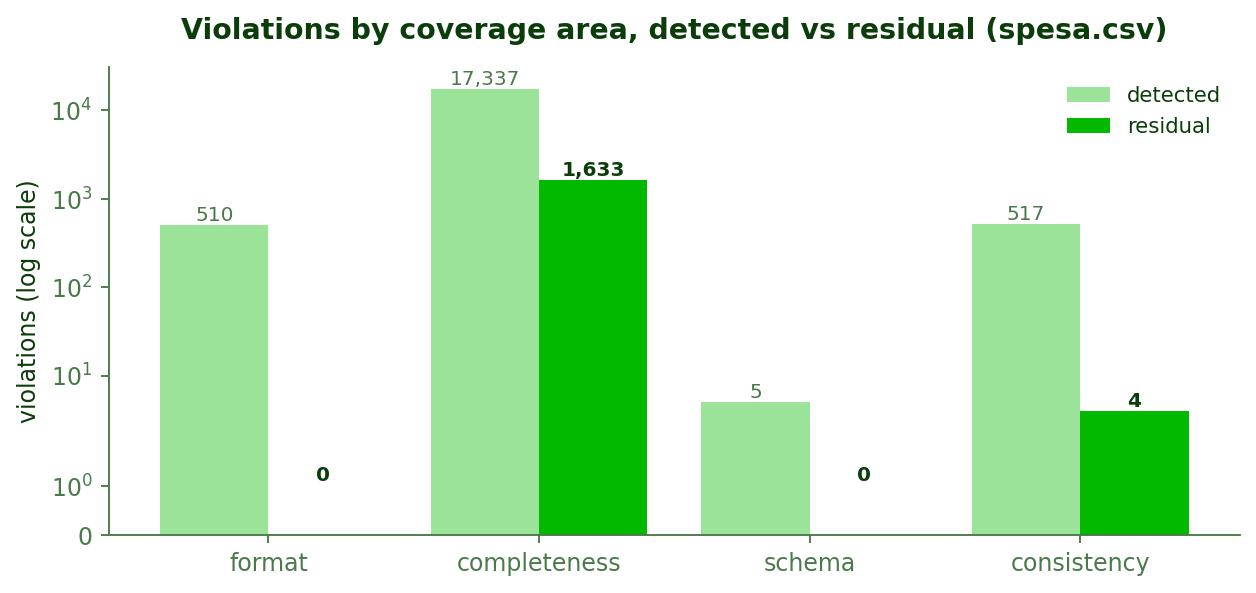
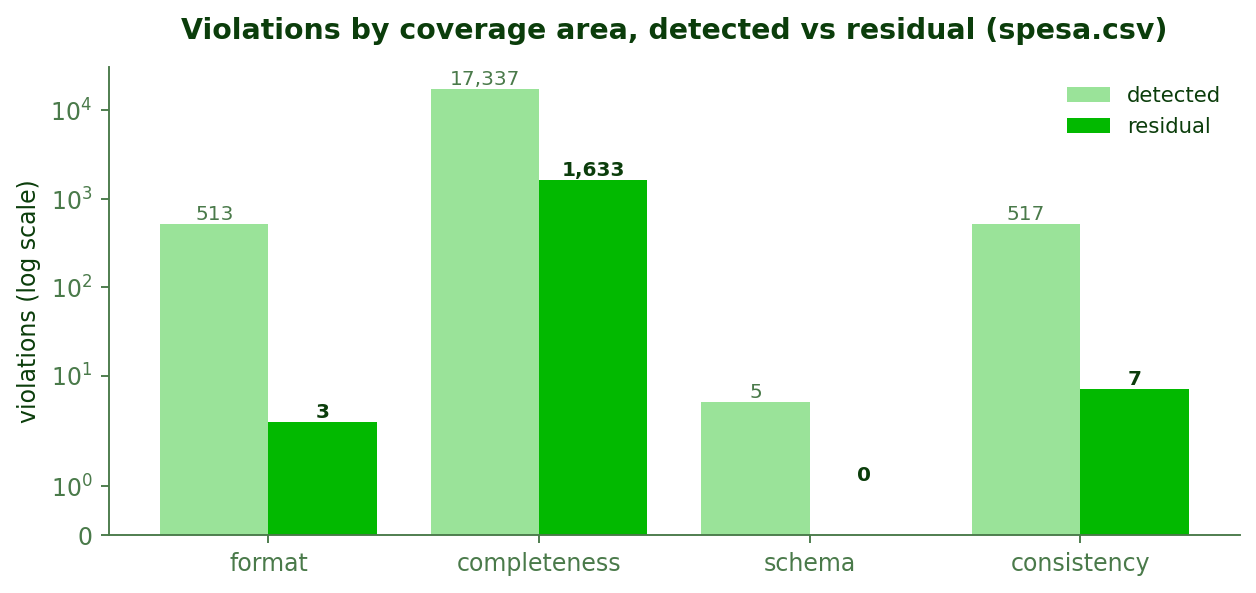
docs(readme): report both required datasets and a held-out generalisation run

Changed region(s): [[0.1863, 0.6678, 0.3105, 0.9106], [0.8384, 0.6374, 0.9626, 0.6981], [0.1553, 0.3339, 0.1863, 0.3946]]

diff --git a/README.md b/README.md
@@ -2,9 +2,9 @@
 
 **A multi-agent pipeline that audits a raw public-administration CSV, repairs it under human approval, and scores what it delivered.**
 
-**Team members:** {{Allam Eliya}}, {{Cervelli Mattia}}, {{Filosofi Simone}}
+**Team members:** Allam Eliya, Cervelli Mattia, Filosofi Simone
 
-This repository documents a project developed for the {{Machine Learning}} course, academic year 2025/26, in collaboration with Reply. The project studies how a **multi-agent LLM pipeline behind a human approval gate** can be used to detect data quality defects in a raw CSV, attach a corrective action to every defect it finds, apply only what a reviewer approves, and produce a data quality report carrying **identified anomalies, correction suggestions and a reliability score**. The system is tailored to **NoiPA (MEF) administrative data** — HR, payroll and public expenditure records — in which disguised nulls, columns duplicated under different names, drifting value formats and legacy codes are the norm rather than the exception.
+This repository documents a project developed for the Machine Learning course, academic year 2025/26, in collaboration with Reply. The project studies how a **multi-agent LLM pipeline behind a human approval gate** can be used to detect data quality defects in a raw CSV, attach a corrective action to every defect it finds, apply only what a reviewer approves, and produce a data quality report carrying **identified anomalies, correction suggestions and a reliability score**. The system is tailored to **NoiPA (MEF) administrative data** — HR, payroll and public expenditure records — in which disguised nulls, columns duplicated under different names, drifting value formats and legacy codes are the norm rather than the exception.
 
 The **central idea** is that a data quality defect is not one kind of object, and that treating it as one is exactly what makes naive LLM cleaning unaccountable. A wrong dtype, a null hiding behind the string `N/D`, two columns holding the same field under different names, a value contradicting the row it sits in, and a statistical outlier are five different problems. They rest on different evidence, they carry different risk, and — the point the whole architecture turns on — they deserve **different authority**. Some may be applied by the system on its own. Some may only ever be *proposed* to a human. And some have no honest fix at all and must be reported as such.
 
@@ -88,7 +88,7 @@ Reply_multi-agents_project_810431/
 |-- prompts/                           # one markdown prompt per LLM-calling agent
 |-- utils/llm.py                       # the single construction point for the chat model
 |-- tests/                             # 291 tests; no network and no API key required
-|-- datasets/                          # additional NoiPA CSVs used as held-out inputs
+|-- datasets/                          # four further NoiPA CSVs, held out (Section 4.10)
 |-- Datasets-Reply-20260313/           # the two datasets required by the brief
 |-- images/                            # figures used by this README
 |-- models.py                          # the typed artifact contracts
@@ -204,7 +204,9 @@ This decomposition explains how two properties coexist that usually trade off: t
 
 ### 2.2 The Two Knowledge-Base Files
 
-The pipeline is grounded in two hand-curated files that together form a semi-RAG knowledge base of NoiPA's canonical data model.
+The pipeline is grounded in two hand-curated files that together form a semi-RAG knowledge base of NoiPA's canonical data model. Both were **written by hand from NoiPA open data**: we downloaded a set of published NoiPA datasets, read their fields, and distilled the recurring columns, domains and conventions into a registry. It is curation, not extraction — the registry states what a field *should* be, which no single file can tell you.
+
+That provenance is also why `datasets/` exists. Four of the files we downloaded — `assenzeMensili.csv`, `contributiPrevidenziali.csv`, `ritenuteSindacali.csv` and `trasferimentiPersonale.csv` — were deliberately **kept out of the registry** and held back as unseen inputs, so that the system could be tested on NoiPA data it has no curated knowledge of. Section 4.10 reports that run.
 
 **`noipa_schema_registry.json`** is the canonical schema. It declares four domains — `Amministrati`, `Amministrazioni`, `Rapporti_di_lavoro`, `Trattamento_economico` — holding eighteen dataset definitions between them, plus a `shared_column_definitions` block of twelve reusable column contracts referenced by `$ref`. It also carries the global conventions the whole pipeline validates against:
 
@@ -371,7 +373,7 @@ The prompt strategy follows the same logic. **A prompt does not create the evide
 
 Prompts are versioned in git, one markdown file per LLM-calling agent, loaded through `utils/prompts.py` — so a prompt change is a reviewable diff rather than an edit buried in a string literal.
 
-The model configuration in `utils/llm.py` is a **single construction point** for the whole system. `temperature=0` and the provider's reasoning mode explicitly disabled, so temperature is honoured and a run is reproducible. Schema-constrained answers go through tool calling; when the provider serialises malformed JSON or truncates at the output limit, the request is retried in **JSON mode**, whose constrained decoding cannot emit invalid JSON, with the schema carried in the prompt. An answer neither path produces raises `EmptyModelResponse`, which a caller able to continue without it catches — so one unanswerable group costs that group and no more, rather than the run.
+The model configuration in `utils/llm.py` is a **single construction point** for the whole system. `temperature=0` and the provider's reasoning mode explicitly disabled, so temperature is honoured and run-to-run variance is bounded. It is not eliminated: measured across two runs of the same file, every deterministic stage reproduced exactly while the proposal stage did not (Section 4, opening). Schema-constrained answers go through tool calling; when the provider serialises malformed JSON or truncates at the output limit, the request is retried in **JSON mode**, whose constrained decoding cannot emit invalid JSON, with the schema carried in the prompt. An answer neither path produces raises `EmptyModelResponse`, which a caller able to continue without it catches — so one unanswerable group costs that group and no more, rather than the run.
 
 ---
 
@@ -442,21 +444,35 @@ Taken together these are not a benchmark suite. They document the process by whi
 
 ## 4. Results
 
-The figures below are drawn from a **single end-to-end run on `spesa.csv`** — 7,543 rows × 18 columns — executed on the pipeline as committed, with **every proposal approved** at the gate so that the full remediation path is exercised. `spesa.csv` is used as the readable case because it exhibits all five defect categories at once: disguised nulls, three-way column redundancy, header-convention drift, format drift inside a period column, and near-empty columns.
+Results come from **three end-to-end runs**, each executed on the pipeline as committed with **every proposal approved** at the gate so that the full remediation path is exercised:
 
-Approving everything is the *upper bound* on what the system will do, not its default. The point of the gate is that a reviewer can decline any of it; running with all six proposals accepted is what makes the delta measurable.
+| Run | Dataset | Size | Role |
+|---|---|---|---|
+| §4.1 – §4.8 | `spesa.csv` | 7,543 × 18 | required by the brief; used as the readable case |
+| §4.9 | `attivazioniCessazioni.csv` | 20,102 × 19 | required by the brief; the larger and harder of the two |
+| §4.10 | `ritenuteSindacali.csv` | 11,745 × 14 | **held out** — never used to build the registry |
+
+`spesa.csv` is unpacked in detail first because it exhibits all five defect categories at once: disguised nulls, three-way column redundancy, header-convention drift, format drift inside a period column, and near-empty columns.
+
+![Reliability before and after remediation across the three datasets](images/reliability_across_datasets.png)
+
+Approving everything is the *upper bound* on what the system will do, not its default. The point of the gate is that a reviewer can decline any of it; approving all of it is what makes the delta measurable.
+
+One caveat on reproducibility, stated here because it bears on every number that follows. The **deterministic stages are stable**: two runs of `spesa.csv` reproduced all four quality snapshots, the 4,324 auto-remediated cells, the duplicate resolution and the completeness analysis exactly. The **proposal stage is not**: an earlier run of the same file produced six proposals instead of the four reported here, the Unified agent having since declared unaddressable what it had previously repaired. The figures below describe specific runs, whose artefacts are kept under `out/`, rather than an average.
 
 ### 4.1 The reliability score, and why there are two of them
 
 The headline result is that the pipeline raised the aggregate reliability score from **0.7562 to 0.9933**. That number is true but incomplete, and the report deliberately publishes a second one beside it.
 
+
+
 ![Reliability by dimension before and after remediation, like-for-like](images/reliability_dimensions.png)
 
-The two scores answer different questions. **As delivered** (0.7562 → 0.9933) compares only the three dimensions measurable on the raw file — completeness, uniqueness and schema conformity — because *validity* and *consistency* cannot be scored before the pipeline has inferred a format spec and mined the cross-column rules to score them against. **Like-for-like** (0.938 → 0.996) is the stricter comparison: it scores both ends over all five dimensions, using the pre-remediation snapshot taken once those specs exist.
+The two scores answer different questions. **As delivered** (0.7562 → 0.9933) compares only the three dimensions measurable on the raw file — completeness, uniqueness and schema conformity — because *validity* and *consistency* cannot be scored before the pipeline has inferred a format spec and mined the cross-column rules to score them against. **Like-for-like** (0.9380 → 0.9959) is the stricter comparison: it scores both ends over all five dimensions, using the pre-remediation snapshot taken once those specs exist.
 
 The like-for-like figure is the smaller improvement and the more honest one, which is why `compare()` computes it and the report prints both. A system that quoted only the first would be taking credit for the arrival of its own measuring instruments.
 
-Per dimension, the movements are **schema conformity 0.8182 → 1.0000** (the largest, and the one the human gate authorised), **consistency 0.9319 → 0.9999**, **validity 0.9931 → 1.0000**, **uniqueness 0.9885 → 1.0000**, and **completeness 0.9702 → 0.9801** — the smallest, and the one that needs explaining.
+Per dimension, the movements are **schema conformity 0.8182 → 1.0000** (the largest, and the one the human gate authorised), **consistency 0.9319 → 0.9995**, **validity 0.9930 → 1.0000**, **uniqueness 0.9885 → 1.0000**, and **completeness 0.9702 → 0.9801** — the smallest, and the one that needs explaining.
 
 ### 4.2 The completeness dip is the system working
 
@@ -470,55 +486,57 @@ This is precisely why quality is captured at three snapshots rather than two. Ag
 
 ### 4.3 Detection and what remains
 
-Across the four active coverage areas the run detected **18,369 violations** and left **1,637** standing.
+Across the four active coverage areas the run detected **18,372 violations** and left **1,643** standing.
 
 ![Violations by coverage area, detected versus residual, log scale](images/violations_by_area.png)
 
-**Format violations went 510 → 0** and **schema violations 5 → 0**: these are the categories where a defect has a determinate correct answer, and the pipeline closes them completely. **Consistency went 517 → 4.** **Completeness went 17,337 → 1,633**, a 90.6% reduction.
+**Schema violations went 5 → 0** and **format violations 513 → 3**, a 99.4% reduction. **Consistency went 517 → 7.** **Completeness went 17,337 → 1,633**, a 90.6% reduction.
 
 The 1,633 residual nulls are the interesting number, because they are **not a failure to detect**. They break down as `area_geografica` (1,567), `spesa` (58) and `descrizione` (8), and every one of them is carried into the report as an `UnaddressedViolations` entry with a stated reason. The model's own justification, quoted from the run:
 
-> *"`area_geografica` has no imputation hint and no deterministic rule to derive the macro-area from other columns in the group. `note` and `fonte_dato` are free-text/provenance fields with no imputation hint and no derivable source; filling them would invent data. `spesa` is a monetary amount with no imputation hint, and monetary values cannot be imputed without a deterministic rule from the user."*
+> *"[These] cannot be safely repaired because none of these columns has an imputation hint providing a deterministic rule to derive the missing value from other columns in the row. `area_geografica`, `note`, and `fonte_dato` are nullable by design and their absence is not a data defect that can be inferred; `spesa` is a monetary amount that must not be invented without a deterministic rule from the user. These require human judgement or source-record reconciliation."*
 
 A system optimising for the headline number would have imputed all 1,633 and reported completeness 1.0000. The invariant in `tools/fix_invariants.py` forbids exactly that, and the residual count is the visible cost of the guarantee that nothing was invented.
 
 ### 4.4 What actually changed, and on whose authority
 
-**5,768 cells** changed across the run. The split by origin is the clearest single picture of the authority argument in Section 1.3.
+**5,764 cells** changed across the run. The split by origin is the clearest single picture of the authority argument in Section 1.3.
 
 ![Cells changed by the stage that changed them](images/cells_changed_by_source.png)
 
 **Auto-remediation accounts for 4,324 cells (75%)** — the corrections the data determines on its own: 2,987 cells of floating-point noise rounded off `spesa` to its recorded two-decimal precision, 414 `rata` period labels rewritten to canonical form, 448 `descrizione` values filled from a mined `ente → descrizione` dependency at purity 0.9928, 379 `imposta` values filled likewise, and 96 partial periods completed. None of these required a human, because none of them required a *choice*.
 
-**Null unmasking accounts for 988**, duplicate-column resolution for **424**, and casing collapse for **22**. The **six human-approved proposals** account for the rest — and strikingly little of it: `g2_f2` changed 4 cells, and the structural proposals changed column names and column counts rather than cells.
+**Null unmasking accounts for 988**, duplicate-column resolution for **424**, and casing collapse for **22**.
 
-The proposals were nonetheless the highest-impact decisions in the run, because they were the only ones that changed the *shape* of the dataset: dropping `note` (98.0% null) and `fonte_dato` (99.0% null), renaming `_id` → `id` and `aggregation-time` → `aggregation_time` to satisfy the registry's naming regex. Combined with four duplicate-column groups collapsed automatically — `{ente, ente%code}`, `{tipo_imposta, Tipo Imposta}`, `{cod_imposta, 2cod_imposta, cod imposta ext}`, `{spesa, SPESA TOTALE}` — the dataset went from **18 columns to 11**, and from **7,543 rows to 7,478** after 65 exact duplicates were removed.
+**The four human-approved proposals changed no cells at all** — and were nonetheless the highest-impact decisions in the run, because they were the only ones that changed the *shape* of the dataset: dropping `note` (98.0% null) and `fonte_dato` (99.0% null), renaming `_id` → `id` and `aggregation-time` → `aggregation_time` to satisfy the registry's naming regex. This is the division of authority visible in a single chart: the deterministic stages moved every value, and the human decided which columns should exist.
+
+Combined with four duplicate-column groups collapsed automatically — `{ente, ente%code}`, `{tipo_imposta, Tipo Imposta}`, `{cod_imposta, 2cod_imposta, cod imposta ext}`, `{spesa, SPESA TOTALE}` — the dataset went from **18 columns to 11**, and from **7,543 rows to 7,478** after 65 exact duplicates were removed.
 
 That duplicate count is itself a second-order effect worth noting: the raw file contained **40** exact duplicate rows, but **65** were removed. Collapsing seven redundant columns made twenty-five further row pairs identical that had previously differed only in a duplicated column's spelling.
-
-**One proposal was redundant.** `g2_f1` proposed filling 456 null `descrizione` values from the `ente` lookup — but auto-remediation, running earlier in the same pipeline, had already filled 448 of them from the same mined dependency, and the remaining 8 have no `ente` key to look up. The proposal was approved, executed without error, and changed nothing. This is a real inefficiency: the Unified agent reasons about violations detected upstream of auto-remediation, so it can propose work already done. It is safe — the invariants and the dry run both pass — but it costs a reviewer's attention on a decision that no longer matters.
 
 ### 4.5 Anomalies are reported, not corrected
 
 The anomaly stage flagged two columns and corrected neither, which is the intended behaviour.
 
-On `imposta` it found two rare categories, `'imposta x'` (3 occurrences, 0.04%) and `'Altro'` (1 occurrence, 0.01%), against a dominant vocabulary. On `spesa` it found **1,352 IQR outliers** above an upper bound of ≈1.58M, ranging up to ≈43.37M. The second is the instructive case: in a public expenditure dataset a 43M figure is not an error, it is a large administration, and a system that "corrected" it would be destroying the most important rows in the file. The report states the finding and leaves the judgement to a reader.
+On `imposta` it found two rare categories, `'imposta x'` (3 occurrences, 0.04%) and `'Altro'` (1 occurrence, 0.01%), against a dominant vocabulary in which `'Previdenziali a carico del datore di lavoro'` alone holds 11.61%. On `spesa` it found **1,352 IQR outliers** above an upper bound of ≈1.58M, ranging up to ≈43.4M. The second is the instructive case: in a public expenditure dataset a 43M figure is not an error, it is a large administration, and a system that "corrected" it would be destroying the most important rows in the file. The report states the finding and leaves the judgement to a reader.
 
-The rare categories on `imposta` did feed a remediation, but by a different route: `g2_f2` corrected them because the **cross-column rule** `cod_imposta → imposta` holds at purity 1.00, so the correct value was determined by evidence rather than by the value's rarity. Rarity flagged the cell; a functional dependency justified the fix.
+The four rare `imposta` values were left in place too, and they survive in the residual count — the run proposed no value-level fix for that column. That is the honest outcome of a policy that acts on evidence rather than on rarity: a mined `cod_imposta → imposta` dependency would have justified a correction, but rarity alone never does.
 
 ### 4.6 Where the run spends its time
 
 ![Per-stage timings for the full run](images/stage_timings.png)
 
-The full run took **383.7 seconds**. `unified` alone accounts for **259.5s — 68% of the total** — because it is the stage that calls a model per column group, validates what comes back, and retries on failure. `semantic` (53.2s) is second, calling the model once per column. `format_consistency` (33.4s) and `report_generator` (24.5s) follow.
+The full run took **437.8 seconds**. `unified` alone accounts for **316.2s — 72% of the total** — because it is the stage that calls a model per column group, validates what comes back, and retries on failure. `semantic` (53.9s) is second, calling the model once per column. `format_consistency` (36.7s) and `report_generator` (17.4s) follow.
 
-The architectural point is at the other end of the chart. Every purely deterministic stage is effectively free: `nan_handler` **0.14s**, `baseline_builder` **0.08s**, `duplicate_row` **0.05s**, `auto_remediation` **2.5s** — and between them, in **3.2 seconds of the 384**, they changed **5,338 of the 5,768 cells (92.5%)**. The expensive stages are the ones that reason; the cheap stages are the ones that measure and act. That is the intended cost profile, and it is what makes the design affordable: pushing work down into deterministic tools is not only safer, it is where the throughput is.
+The architectural point is at the other end of the chart. Every purely deterministic stage is effectively free: `nan_handler` **0.15s**, `baseline_builder` **0.08s**, `duplicate_row` **0.05s**, `auto_remediation` **2.5s** — and between them, in **2.8 seconds of the 438**, they changed **5,338 of the 5,764 cells (92.6%)**. The expensive stages are the ones that reason; the cheap stages are the ones that measure and act. That is the intended cost profile, and it is what makes the design affordable: pushing work down into deterministic tools is not only safer, it is where the throughput is.
 
-### 4.7 A caveat on this run
+### 4.7 A caveat on this particular run
 
-**No generated cleaning function was produced.** On `spesa.csv` the Unified agent found that every value-level repair it needed was expressible as a typed catalogue operation — `impute_from_lookup` and a four-cell `replace_values` — so the code-generation path described in Sections 2.4.4 and 2.6, with its static gate, sandbox and critic escalation, **was not exercised by this run**. That machinery is covered by the test suite (`tests/test_generated_function.py`, `tests/test_unified_generated_gate.py`, `tests/test_unified_repair_loop.py`, `tests/test_generated_function_pipeline.py`) rather than by these results.
+**On this run the Unified agent proposed nothing at the value level.** All four proposals were the deterministic schema ones from `tools/schema_proposals.py`; the model examined the remaining column group and declared its violations unaddressable rather than writing a repair. The code-generation path of Sections 2.4.4 and 2.6 was therefore **not exercised on `spesa.csv`**, which is why the residual counts in §4.3 are not zero.
 
-This is an honest limitation of a single-dataset results section, and it cuts in an interesting direction: given a choice between writing code and selecting a bounded operation, the agent chose the bounded operation every time.
+A previous run of the same file *did* produce two value-level proposals for that group — an `impute_from_lookup` on `descrizione` and a four-cell `replace_values` on `imposta` — which is the run-to-run variance noted at the head of this section. Neither run produced a generated function: given a choice between writing code and selecting a bounded operation, the agent chose the bounded operation both times.
+
+The other two datasets did exercise the code-generation path, and Sections 4.9 and 4.10 report what it produced.
 
 ### 4.8 Summary of run outcomes
 
@@ -539,18 +557,72 @@ This is an honest limitation of a single-dataset results section, and it cuts in
 
 | Run metric | Value |
 |---|---|
-| Violations detected | 18,369 |
-| Violations residual | 1,637 |
-| Cells changed | 5,768 |
+| Violations detected | 18,372 |
+| Violations residual | 1,643 |
+| Cells changed | 5,764 |
 | Disguised nulls unmasked | 988 |
 | Auto-remediations applied | 5 operations, 4,324 cells |
-| Proposals put to the reviewer | 6 |
-| Proposals approved and applied | 6 (0 errors, 0 refused) |
+| Proposals put to the reviewer | 4 |
+| Proposals approved and applied | 4 (0 errors, 0 refused) |
 | Duplicate-column groups collapsed | 4 |
 | Generated cleaning functions | 0 |
 | **Reliability, as delivered** | **0.7562 → 0.9933** |
-| **Reliability, like-for-like** | **0.9380 → 0.9960** |
-| Total runtime | 383.7s |
+| **Reliability, like-for-like** | **0.9380 → 0.9959** |
+| Total runtime | 437.8s |
+
+### 4.9 The second required dataset: `attivazioniCessazioni.csv`
+
+`attivazioniCessazioni.csv` is the harder of the two files the brief requires: **20,102 rows × 19 columns**, 2.7× the size of `spesa`, with **eight** badly named columns and **five** duplicate-column groups against `spesa`'s four. Its header row alone carries `Provincia Sede`, `CODICE ENTE`, `3descrizione`, `regione%sede` and — a space inside a word — `att ivazioni`.
+
+The pipeline detected **50,225 violations** and left **7,343**, carrying reliability from **0.8652 to 0.9798** like-for-like (0.7448 → 0.9919 as delivered). It unmasked **2,888 disguised nulls**, collapsed 19 columns to **12**, removed **90** duplicate rows, and changed **8,246 cells**.
+
+Three things distinguish this run from `spesa`.
+
+**The registry matched nothing.** The Profiler correctly identified the domain as `Rapporti_di_lavoro`, but every column came back with `canonical_hint: null` — no entry in the curated registry corresponds to these fields. The run therefore proceeded entirely on **inferred** format specs and **mined** cross-column rules, with no canonical grounding at all. That it still reached 0.9798 is the strongest evidence in this README that the deterministic layer carries the system when the knowledge base does not.
+
+**Auto-remediation did the cross-column work.** Two mined rules dominate the file — `RATA determines mese` (1,702 rows breaking) and `RATA determines anno` (1,160 rows breaking) — and `auto_remediation` repaired 958 of those rows by deriving month and year directly from the period key, plus 802 period labels normalised.
+
+**The gate saw two generated cleaning functions.** `clean_cessazioni` normalised the `cessazioni` measure, coercing its values to whole non-negative counts. Both were written against the column's own conforming and violating values, cleared the static gate, and were executed in the sandbox before the reviewer saw them; across the run the sandbox executed **20** generated-function trials.
+
+### 4.10 Generalisation: a held-out dataset
+
+The canonical registry and the retrieval index in this repository were built by hand from **NoiPA open data**. Alongside the two files the brief requires, we downloaded four further NoiPA datasets — `assenzeMensili.csv`, `contributiPrevidenziali.csv`, `ritenuteSindacali.csv` and `trasferimentiPersonale.csv` — which live in `datasets/` and were **never used to build the registry**. They exist to answer a question the two required files cannot: does the pipeline work on a NoiPA file it has no curated knowledge of, or is it fitted to the two it was developed against?
+
+`ritenuteSindacali.csv` — trade-union dues, **11,745 rows × 14 columns** — is the sharpest test of the four. The registry covers `RitenuteFiscali`, `RitenutePrevidenziali` and `RitenutePrestiti` but **not** union dues, so the dataset sits in an adjacent domain that is genuinely absent from the knowledge base. It also uses a different identifier convention (`id_record`, a UUID, rather than `_id`) and carries an arithmetic identity between three of its columns.
+
+The pipeline handled it without a single error, and it is the cleanest of the three runs: **15,129 violations detected, 1,039 left standing**, a 93.1% reduction, with reliability moving **0.9268 → 0.9632** like-for-like.
+
+- **Completeness, validity, format and schema all closed to zero.** Completeness went 0.9258 → **1.0000** — every one of the 12,245 completeness violations resolved, after 441 disguised nulls were unmasked and three mined dependencies filled 852 cells.
+- It mined **four cross-column rules with no registry help at all**, including the arithmetic identity `differenza = importo_ritenuto - importo_versato` and `descrizione_sindacale determines sigla_sindacale` (779 rows breaking, all repaired).
+- It wrote **two generated cleaning functions that worked**: `clean_sigla_sindacale` normalised 807 union acronyms, and `clean_importo_versato` stripped a trailing-minus notation from 177 monetary values before casting the column to `float64`.
+- It removed **88** duplicate rows and collapsed the one duplicate-column group present.
+
+**Almost the entire residue is a single rule.** Of the 1,039 violations left, **1,038** are rows breaking `differenza = importo_ritenuto - importo_versato` — and they are left standing deliberately, for the reason given below.
+
+**Two things it did not do, both correctly.** The arithmetic identity was declared unaddressable, with the model naming the real reason: *"recomputing a value based on two other columns, but the available operations only work on a single column at a time."* That is a real bound on the typed catalogue, and the agent reported it rather than proposing something it could not deliver. And the missing `codice_amministrazione` values were left alone, because no column determines them.
+
+### 4.11 The three runs side by side
+
+| | `spesa` | `attivazioniCessazioni` | `ritenuteSindacali` |
+|---|---|---|---|
+| Role | required | required | **held out** |
+| Rows × columns, raw | 7,543 × 18 | 20,102 × 19 | 11,745 × 14 |
+| Columns delivered | 11 | 12 | 12 |
+| Canonical registry match | partial | **none** | **none** |
+| Disguised nulls unmasked | 988 | 2,888 | 441 |
+| Violations detected → residual | 18,372 → 1,643 | 50,225 → 7,343 | 15,129 → **1,039** |
+| Cells changed | 5,764 | 8,246 | 14,117 |
+| Duplicate rows removed | 65 | 90 | 88 |
+| Duplicate-column groups | 4 | 5 | 1 |
+| Proposals, all approved | 4 | 7 | 4 |
+| Generated cleaning functions | 0 | 2 | 2 |
+| Cross-column rules mined | 5 | 2 | 4 |
+| Completeness | 0.8752 → **0.9801** | 0.8773 → **0.9758** | 0.9258 → **1.0000** |
+| **Reliability, like-for-like** | 0.9380 → **0.9959** | 0.8652 → **0.9798** | 0.9268 → **0.9632** |
+| Runtime | 437.8s | 645.9s | 180.6s |
+| Errors | 0 | 0 | 0 |
+
+Read together, the three runs support a narrower claim than any one of them would alone. The system is **not fitted to the two files it was developed against**: on a held-out dataset from a domain its registry does not cover, it mined four cross-column rules unaided, closed completeness entirely, and wrote two working cleaning functions. The residual column is equally part of the result — across all three files the pipeline left standing every defect for which it had no evidence-backed repair, and named the reason in the report rather than closing the gap by inventing a value.
 
 ---
 
@@ -558,11 +630,13 @@ This is an honest limitation of a single-dataset results section, and it cuts in
 
 ### 5.1 Main Takeaway
 
-The run supports a narrower claim than "the pipeline improves data quality", and the narrower claim is the one worth making: **the system improved the dataset while remaining able to account for every change it made, and it declined the changes it could not account for.**
+The three runs support a narrower claim than "the pipeline improves data quality", and the narrower claim is the one worth making: **the system improved every dataset it was given while remaining able to account for each change it made, and it declined the changes it could not account for.**
 
-Concretely, on `spesa.csv` it raised like-for-like reliability from **0.9380 to 0.9960**, eliminated **100%** of format and schema violations, reduced completeness violations by **90.6%**, removed **7 redundant or empty columns** and **65 duplicate rows**, and changed **5,768 cells** — each one recorded in a cell-level change log naming the stage that changed it.
+Concretely, on `spesa.csv` it raised like-for-like reliability from **0.9380 to 0.9959**, eliminated **100%** of schema violations and **99.4%** of format violations, reduced completeness violations by **90.6%**, removed **7 redundant or empty columns** and **65 duplicate rows**, and changed **5,764 cells** — each one recorded in a cell-level change log naming the stage that changed it. On the larger `attivazioniCessazioni.csv` it went **0.8652 → 0.9798** with no canonical registry match at all, and on the held-out `ritenuteSindacali.csv` **0.9268 → 0.9632**, closing completeness, validity, format and schema entirely and mining four cross-column rules unaided.
 
-The shape of that improvement matters as much as its size. **75% of the cells were changed by deterministic auto-remediation**, on evidence strong enough that a human decision would have added nothing: mined dependencies at purity ≥ 0.99, a column's own recorded decimal precision, an unambiguous period layout. The human gate was reserved for the seven **structural** decisions — which columns to drop, which to rename — that no measurement can settle.
+That the held-out file worked is the result we would defend hardest: the system is not fitted to the two datasets it was developed against.
+
+The shape of that improvement matters as much as its size. **75% of the cells were changed by deterministic auto-remediation**, on evidence strong enough that a human decision would have added nothing: mined dependencies at purity ≥ 0.99, a column's own recorded decimal precision, an unambiguous period layout. The human gate was reserved for the **structural** decisions — which columns to drop, which to rename — that no measurement can settle.
 
 And **1,633 nulls were deliberately left in place.** No imputation hint supported them, so the invariants refused to fill them and the report explains why for each column. That number is not a shortfall against a target; it is the visible price of the guarantee that the pipeline never invented a value. A system built to maximise a completeness score would have reported 1.0000 and been worth less.
 
@@ -598,9 +672,11 @@ The **canonical registry is hand-curated for NoiPA**. The system is grounded in 
 
 **Single-provider dependency.** Every chat call goes through one model pinned in `utils/llm.py`. This buys reproducibility and a single place to change; it also means provider availability is a hard dependency of any live run.
 
-**Proposals can duplicate work auto-remediation has already done.** The Unified agent reasons about the violations detected *upstream* of auto-remediation, so it may propose a repair that has since been applied — as `g2_f1` did in Section 4.4, proposing 456 imputations of which 448 were already filled and 8 were unfillable. The outcome is safe (the dry run and the invariants both pass, and the operation is idempotent) but it spends a reviewer's attention on a decision that no longer matters. The fix is to re-scope the violation set handed to `unified` against the post-auto-remediation state.
+**Proposals can duplicate work auto-remediation has already done.** The Unified agent reasons about the violations detected *upstream* of auto-remediation, so it may propose a repair that has since been applied — an earlier run of `spesa.csv` proposed 456 `descrizione` imputations of which auto-remediation had already filled 448, the remaining 8 being unfillable; it was approved, executed without error, and changed nothing. The outcome is safe (the dry run and the invariants both pass, and the operation is idempotent) but it spends a reviewer's attention on a decision that no longer matters. The fix is to re-scope the violation set handed to `unified` against the post-auto-remediation state.
 
-**The results section exercises one dataset and one path.** `spesa.csv` did not require a single generated cleaning function, so the code-generation chain is evidenced by tests rather than by these figures. A results section over both required datasets would cover more of the architecture than this one does.
+**Generated code cannot express a cross-column repair.** The scalar-transform interface that makes `clean_value` safe — it never sees the dataframe — also makes it structurally unable to derive a value from another column. Such repairs must go through the typed catalogue, and where the catalogue has no matching operation the violation is carried to the report unaddressed rather than repaired.
+
+**Run-to-run reproducibility holds for measurement, not for proposals.** Two runs of `spesa.csv` produced identical snapshots, auto-remediations and completeness analyses, but six proposals in one and four in the other. `temperature=0` bounds the variance; it does not remove it.
 
 **The gate assumes an informed reviewer.** The system shows the generated source verbatim, which is the right thing to show, but it presumes someone able to read it. A reviewer who approves everything gets a system with much weaker guarantees than the architecture nominally provides.
 
